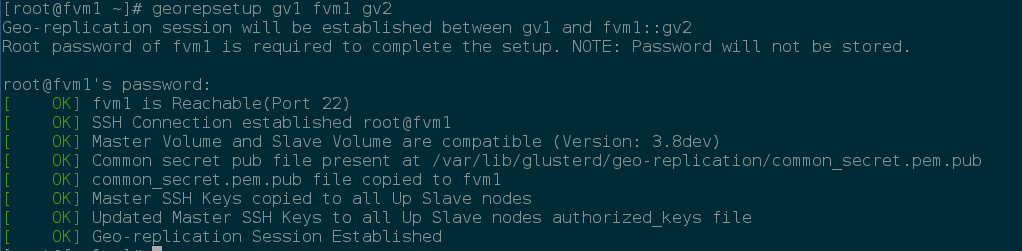
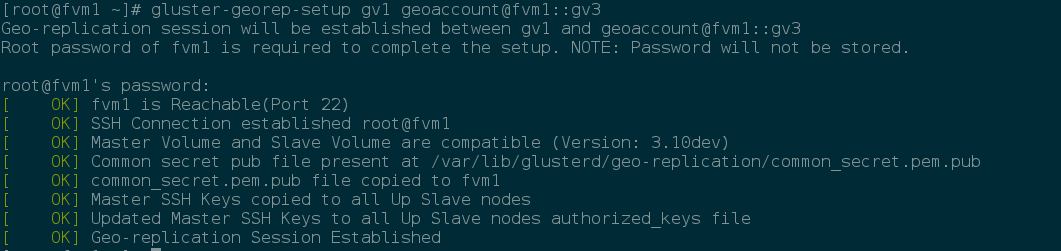
Changed screenshot of gluster-georep-setup and updated installation instructions

diff --git a/README.md b/README.md
@@ -1,6 +1,12 @@
 # Gluster Georep Tools
 Collection of Utilities for Gluster Geo-replication
 
+Install Gluster CLI Python bindings using,
+
+    git clone https://github.com/gluster/glustercli-python.git
+    cd glustercli-python
+    sudo python setup.py install
+
 Install all the tools using,
 
     git clone https://github.com/aravindavk/gluster-georep-tools.git
